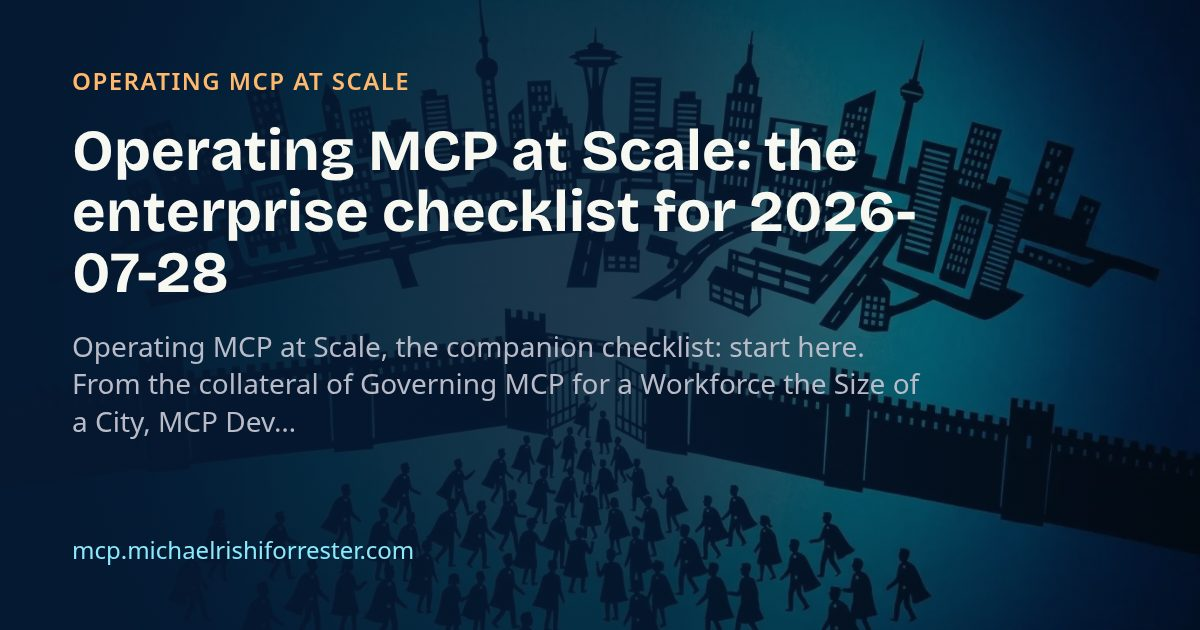
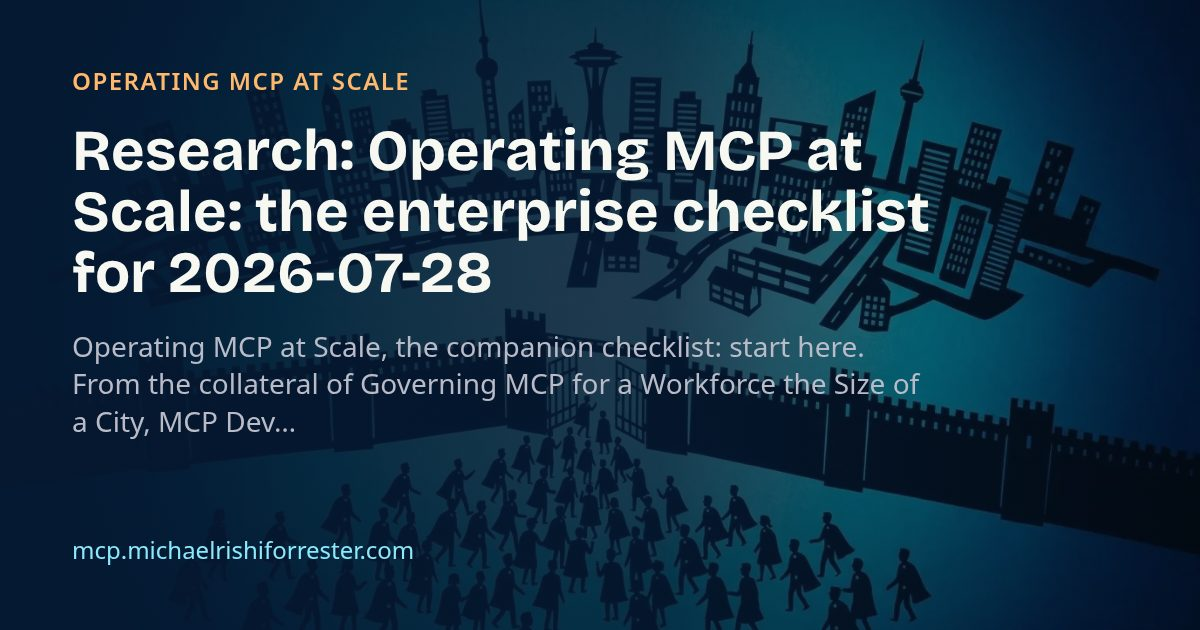
Read each article's status and title prefix from its own front matter
Every part of the series now shows the Research: prefix. Part two is
marked final in its front matter, so its draft badge is gone; the others
remain drafts under review.

Issue #8

Changed region(s): [[0.0617, 0.181, 0.7708, 0.4825]]

diff --git a/scripts/sync-collateral.ts b/scripts/sync-collateral.ts
@@ -2,7 +2,7 @@
 // ABOUTME: Run with `node scripts/sync-collateral.ts [path-to-mcp-for-a-city]`; nothing outside the allowlist ever crosses.
 
 import { execSync } from "node:child_process";
-import { copyFileSync, mkdirSync, writeFileSync } from "node:fs";
+import { copyFileSync, mkdirSync, readFileSync, writeFileSync } from "node:fs";
 import { dirname, relative, resolve } from "node:path";
 
 /** Every document the site renders from peopleforrester/mcp-for-a-city. A file not listed here is not published. */
@@ -14,6 +14,8 @@ export interface Collateral {
   status?: string;
   /** The research topic a document is listed under on the Resources page. */
   topic?: string;
+  /** A title prefix from the document's own front matter, such as "Research". */
+  prefix?: string;
 }
 
 export const COLLATERAL: Collateral[] = [
@@ -105,10 +107,23 @@ function historyOf(src: string): { date: string; sha: string; subject: string }[
   return out ? out.split("\n").map((line) => { const [date, sha, subject] = line.split("\t"); return { date, sha, subject }; }) : [];
 }
 
+/** One field from a document's YAML front matter, if it has one. */
+function frontMatter(md: string, key: string): string | undefined {
+  const head = md.match(/^---\n([\s\S]*?)\n---\n/)?.[1] ?? "";
+  return head.match(new RegExp(`^${key}:\\s*"?([^"\\n]*)"?\\s*$`, "m"))?.[1]?.trim() || undefined;
+}
+
+// The document is the authority on its own status and prefix: a draft shows the badge, a final does not.
 for (const c of COLLATERAL) {
   const dest = `content/collateral/${c.slug}.md`;
   mkdirSync(dirname(dest), { recursive: true });
   copyFileSync(resolve(repo, c.src), dest);
+  const md = readFileSync(dest, "utf8");
+  const status = frontMatter(md, "status");
+  if (status) c.status = status === "draft" ? "draft, under review" : undefined;
+  const prefix = frontMatter(md, "prefix");
+  if (prefix && !c.title.startsWith(`${prefix}: `)) c.title = `${prefix}: ${c.title}`;
+  if (prefix) c.prefix = prefix;
   writeEntry(c);
 }
 writeFileSync("content/collateral/manifest.json", JSON.stringify({ repo: "peopleforrester/mcp-for-a-city", commit: sha, synced: new Date().toISOString().slice(0, 10), documents: COLLATERAL.map((c) => ({ ...c, history: historyOf(c.src) })) }, null, 1) + "\n");

diff --git a/src/pages/Document.tsx b/src/pages/Document.tsx
@@ -13,7 +13,7 @@ export function DocumentPage({ slug, markdown }: { slug: string; markdown: strin
   const { prev, next } = neighbours(slug);
   return (
     <>
-      <PageIntro title={title || doc.title} lede={<>{doc.series && <>{doc.series}. </>}{doc.status && <span className="rounded bg-[color:var(--color-accent)] px-2 py-0.5 text-sm font-semibold text-black">{doc.status}</span>}{doc.status && " "}From <a href={`https://github.com/${manifest.repo}/blob/main/${doc.src}`} className="underline underline-offset-4">{manifest.repo}</a>, as of commit {manifest.commit}, synced {manifest.synced}. <a href="/resources/" className="underline underline-offset-4">Resources</a> / <a href={section.href} className="underline underline-offset-4">{section.name}</a>.{doc.status && <> Corrections are welcome as <a href={`https://github.com/${manifest.repo}/issues`} className="underline underline-offset-4">issues on the repo</a>.</>}</>} />
+      <PageIntro title={title ? ("prefix" in doc && doc.prefix ? `${doc.prefix}: ${title}` : title) : doc.title} lede={<>{doc.series && <>{doc.series}. </>}{doc.status && <span className="rounded bg-[color:var(--color-accent)] px-2 py-0.5 text-sm font-semibold text-black">{doc.status}</span>}{doc.status && " "}From <a href={`https://github.com/${manifest.repo}/blob/main/${doc.src}`} className="underline underline-offset-4">{manifest.repo}</a>, as of commit {manifest.commit}, synced {manifest.synced}. <a href="/resources/" className="underline underline-offset-4">Resources</a> / <a href={section.href} className="underline underline-offset-4">{section.name}</a>.{doc.status && <> Corrections are welcome as <a href={`https://github.com/${manifest.repo}/issues`} className="underline underline-offset-4">issues on the repo</a>.</>}</>} />
       <div className="measure-wide pb-12 grid gap-10 lg:grid-cols-[1fr_16rem]">
         <article className="prose-doc" dangerouslySetInnerHTML={{ __html: html }} />
         <nav aria-label={`In ${section.name}`} className="text-sm lg:sticky lg:top-24 lg:self-start">

diff --git a/resources/articles/operating-mcp-checklist/index.html b/resources/articles/operating-mcp-checklist/index.html
@@ -3,9 +3,9 @@
   <head>
     <meta charset="UTF-8" />
     <meta name="viewport" content="width=device-width, initial-scale=1.0" />
-    <title>Operating MCP at Scale: the enterprise checklist for 2026-07-28</title>
+    <title>Research: Operating MCP at Scale: the enterprise checklist for 2026-07-28</title>
     <meta name="description" content="Operating MCP at Scale, the companion checklist: start here. From the collateral of Governing MCP for a Workforce the Size of a City, MCP Dev Summit Toronto 2026." />
-    <meta property="og:title" content="Operating MCP at Scale: the enterprise checklist for 2026-07-28" />
+    <meta property="og:title" content="Research: Operating MCP at Scale: the enterprise checklist for 2026-07-28" />
     <meta property="og:image" content="https://mcp.michaelrishiforrester.com/og/resources-articles-operating-mcp-checklist.jpg" />
     <meta name="twitter:card" content="summary_large_image" />
     <meta name="twitter:image" content="https://mcp.michaelrishiforrester.com/og/resources-articles-operating-mcp-checklist.jpg" />

diff --git a/resources/articles/part-1-operational-excellence/index.html b/resources/articles/part-1-operational-excellence/index.html
@@ -3,9 +3,9 @@
   <head>
     <meta charset="UTF-8" />
     <meta name="viewport" content="width=device-width, initial-scale=1.0" />
-    <title>The Protocol Moved Under You and Nobody Migrates You</title>
+    <title>Research: The Protocol Moved Under You and Nobody Migrates You</title>
     <meta name="description" content="Operating MCP at Scale, part 1: operational excellence. From the collateral of Governing MCP for a Workforce the Size of a City, MCP Dev Summit Toronto 2026." />
-    <meta property="og:title" content="The Protocol Moved Under You and Nobody Migrates You" />
+    <meta property="og:title" content="Research: The Protocol Moved Under You and Nobody Migrates You" />
     <meta property="og:image" content="https://mcp.michaelrishiforrester.com/og/resources-articles-part-1-operational-excellence.jpg" />
     <meta name="twitter:card" content="summary_large_image" />
     <meta name="twitter:image" content="https://mcp.michaelrishiforrester.com/og/resources-articles-part-1-operational-excellence.jpg" />

diff --git a/resources/articles/part-3-reliability/index.html b/resources/articles/part-3-reliability/index.html
@@ -3,9 +3,9 @@
   <head>
     <meta charset="UTF-8" />
     <meta name="viewport" content="width=device-width, initial-scale=1.0" />
-    <title>Your Health Check Is Speaking a Different Protocol Version</title>
+    <title>Research: Your Health Check Is Speaking a Different Protocol Version</title>
     <meta name="description" content="Operating MCP at Scale, part 3: reliability. From the collateral of Governing MCP for a Workforce the Size of a City, MCP Dev Summit Toronto 2026." />
-    <meta property="og:title" content="Your Health Check Is Speaking a Different Protocol Version" />
+    <meta property="og:title" content="Research: Your Health Check Is Speaking a Different Protocol Version" />
     <meta property="og:image" content="https://mcp.michaelrishiforrester.com/og/resources-articles-part-3-reliability.jpg" />
     <meta name="twitter:card" content="summary_large_image" />
     <meta name="twitter:image" content="https://mcp.michaelrishiforrester.com/og/resources-articles-part-3-reliability.jpg" />

diff --git a/resources/articles/part-5-cost/index.html b/resources/articles/part-5-cost/index.html
@@ -3,9 +3,9 @@
   <head>
     <meta charset="UTF-8" />
     <meta name="viewport" content="width=device-width, initial-scale=1.0" />
-    <title>The MCP Bill Is Hiding in the Token Bill</title>
+    <title>Research: The MCP Bill Is Hiding in the Token Bill</title>
     <meta name="description" content="Operating MCP at Scale, part 5: cost. From the collateral of Governing MCP for a Workforce the Size of a City, MCP Dev Summit Toronto 2026." />
-    <meta property="og:title" content="The MCP Bill Is Hiding in the Token Bill" />
+    <meta property="og:title" content="Research: The MCP Bill Is Hiding in the Token Bill" />
     <meta property="og:image" content="https://mcp.michaelrishiforrester.com/og/resources-articles-part-5-cost.jpg" />
     <meta name="twitter:card" content="summary_large_image" />
     <meta name="twitter:image" content="https://mcp.michaelrishiforrester.com/og/resources-articles-part-5-cost.jpg" />

diff --git a/resources/articles/part-4-performance/index.html b/resources/articles/part-4-performance/index.html
@@ -3,9 +3,9 @@
   <head>
     <meta charset="UTF-8" />
     <meta name="viewport" content="width=device-width, initial-scale=1.0" />
-    <title>Where an MCP Call Spends Its Time</title>
+    <title>Research: Where an MCP Call Spends Its Time</title>
     <meta name="description" content="Operating MCP at Scale, part 4: performance. From the collateral of Governing MCP for a Workforce the Size of a City, MCP Dev Summit Toronto 2026." />
-    <meta property="og:title" content="Where an MCP Call Spends Its Time" />
+    <meta property="og:title" content="Research: Where an MCP Call Spends Its Time" />
     <meta property="og:image" content="https://mcp.michaelrishiforrester.com/og/resources-articles-part-4-performance.jpg" />
     <meta name="twitter:card" content="summary_large_image" />
     <meta name="twitter:image" content="https://mcp.michaelrishiforrester.com/og/resources-articles-part-4-performance.jpg" />

diff --git a/resources/articles/part-2-security/index.html b/resources/articles/part-2-security/index.html
@@ -3,9 +3,9 @@
   <head>
     <meta charset="UTF-8" />
     <meta name="viewport" content="width=device-width, initial-scale=1.0" />
-    <title>Everyone Vets MCP Servers Alone</title>
+    <title>Research: Everyone Vets MCP Servers Alone</title>
     <meta name="description" content="Operating MCP at Scale, part 2: security. From the collateral of Governing MCP for a Workforce the Size of a City, MCP Dev Summit Toronto 2026." />
-    <meta property="og:title" content="Everyone Vets MCP Servers Alone" />
+    <meta property="og:title" content="Research: Everyone Vets MCP Servers Alone" />
     <meta property="og:image" content="https://mcp.michaelrishiforrester.com/og/resources-articles-part-2-security.jpg" />
     <meta name="twitter:card" content="summary_large_image" />
     <meta name="twitter:image" content="https://mcp.michaelrishiforrester.com/og/resources-articles-part-2-security.jpg" />

diff --git a/content/collateral/articles/part-1-operational-excellence.md b/content/collateral/articles/part-1-operational-excellence.md
@@ -3,6 +3,7 @@ title: "The Protocol Moved Under You and Nobody Migrates You"
 subtitle: "Operating MCP at scale, part one: operational excellence"
 date: 2026-09-21
 status: draft
+prefix: "Research"
 series: "Operating MCP at Scale"
 part: 1
 sources_verified_on: 2026-10-05

diff --git a/content/collateral/articles/part-3-reliability.md b/content/collateral/articles/part-3-reliability.md
@@ -3,6 +3,7 @@ title: "Your Health Check Is Speaking a Different Protocol Version"
 subtitle: "Operating MCP at scale, part three: reliability"
 date: 2026-10-01
 status: draft
+prefix: "Research"
 series: "Operating MCP at Scale"
 part: 3
 sources_verified_on: 2026-10-05

diff --git a/content/collateral/articles/part-4-performance.md b/content/collateral/articles/part-4-performance.md
@@ -3,6 +3,7 @@ title: "Where an MCP Call Spends Its Time"
 subtitle: "Operating MCP at scale, part four: performance"
 date: 2026-10-05
 status: draft
+prefix: "Research"
 series: "Operating MCP at Scale"
 part: 4
 sources_verified_on: 2026-10-06

diff --git a/content/collateral/articles/part-5-cost.md b/content/collateral/articles/part-5-cost.md
@@ -3,6 +3,7 @@ title: "The MCP Bill Is Hiding in the Token Bill"
 subtitle: "Operating MCP at scale, part five: cost"
 date: 2026-10-05
 status: draft
+prefix: "Research"
 series: "Operating MCP at Scale"
 part: 5
 sources_verified_on: 2026-10-06
